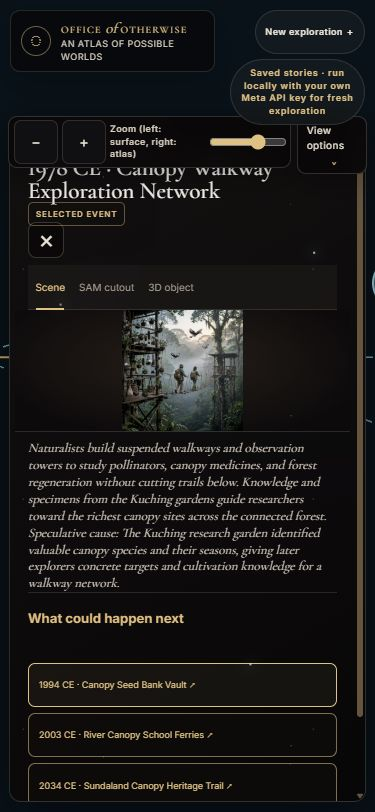
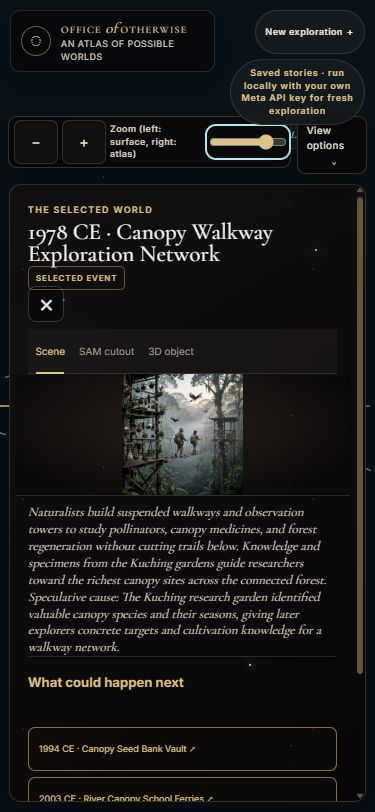
Keep phone details clear of Atlas controls

diff --git a/test/atlasAppIntegration.test.js b/test/atlasAppIntegration.test.js
@@ -71,6 +71,8 @@ test('Orbit compact panels expose a selected-world card and accessible controls'
   assert.match(css, /body:has\(#atlas-scene\[data-atlas-level="orbit"\]\) \.hero-panel>:not\(\.atlas-world-card\),\s*body:has\(#atlas-scene\[data-atlas-level="atlas"\]\) \.hero-panel>:not\(\.atlas-world-card\)\{display:block;position:absolute;inset:0;overflow:hidden;opacity:0;visibility:hidden/, 'the compact card removes full details from layout while keeping them transitionable');
   assert.match(css, /body\.atlas-details-open:has\(#atlas-scene\[data-atlas-level="orbit"\]\) \.hero-panel>:not\(\.atlas-world-card\):not\(\[hidden\]\),\s*body\.atlas-details-open:has\(#atlas-scene\[data-atlas-level="atlas"\]\) \.hero-panel>:not\(\.atlas-world-card\):not\(\[hidden\]\)\{display:block;position:relative;inset:auto;max-height:none;overflow:visible;opacity:1;visibility:visible/, 'Open details restores nonhidden chronicle content for a reverse transition');
   assert.match(css, /body\.atlas-details-open:has\(#atlas-scene\[data-atlas-level="orbit"\]\) \.atlas-world-card,\s*body\.atlas-details-open:has\(#atlas-scene\[data-atlas-level="atlas"\]\) \.atlas-world-card\{display:grid;position:absolute;[\s\S]*?opacity:0;visibility:hidden;pointer-events:none/, 'the compact card leaves the visible layout when details open');
+  assert.match(css, /@media\(max-width:700px\)[\s\S]*body\.atlas-details-open:has\(#atlas-scene\[data-atlas-level="orbit"\]\) \.hero-panel,\s*body\.atlas-details-open:has\(#atlas-scene\[data-atlas-level="atlas"\]\) \.hero-panel\{top:184px;right:9px;bottom:10px;left:9px;width:auto;height:auto;max-height:calc\(100dvh - 130px\);overflow:auto\}/, 'the phone details sheet starts below the zoom toolbar and scrolls within the remaining viewport');
+  assert.match(css, /body\.atlas-details-open:has\(#atlas-scene\[data-atlas-level="atlas"\]\) \.hero-panel\{top:218px\}/, 'the Atlas phone sheet starts below the additional Other questions control');
   assert.match(css, /\.atlas-details-close\[hidden\]\{display:none!important\}/, 'the separate details close control only appears while details are open');
   assert.match(app, /const cardHidden = !compact \|\| detailsOpen \|\| card\.hidden;[\s\S]*card\.inert = cardHidden;[\s\S]*card\.setAttribute\('aria-hidden', String\(cardHidden\)\)/, 'the hidden compact card leaves keyboard and accessibility navigation');
   assert.match(css, /\.atlas-world-card\{display:grid;position:absolute;[\s\S]*?opacity:0;visibility:hidden/, 'the card stays renderable so Orbit can fade it in');

diff --git a/web/style.css b/web/style.css
@@ -484,7 +484,8 @@ body.atlas-panels-open:has(#atlas-scene[data-atlas-level="atlas"]) .atlas-toolba
   .atlas-world-card-copy span{font-size:11px}
   .atlas-world-card button{grid-column:auto;min-width:92px;min-height:44px;padding:5px;font-size:10px}
   body.atlas-details-open:has(#atlas-scene[data-atlas-level="orbit"]) .hero-panel,
-  body.atlas-details-open:has(#atlas-scene[data-atlas-level="atlas"]) .hero-panel{top:auto;right:9px;bottom:10px;left:9px;width:auto;height:auto;max-height:calc(100dvh - 130px);overflow:auto}
+  body.atlas-details-open:has(#atlas-scene[data-atlas-level="atlas"]) .hero-panel{top:184px;right:9px;bottom:10px;left:9px;width:auto;height:auto;max-height:calc(100dvh - 130px);overflow:auto}
+  body.atlas-details-open:has(#atlas-scene[data-atlas-level="atlas"]) .hero-panel{top:218px}
   body.atlas-details-open:has(#atlas-scene[data-atlas-level="orbit"]) .exploration-rail,
   body.atlas-details-open:has(#atlas-scene[data-atlas-level="atlas"]) .exploration-rail{bottom:10px}
   body.atlas-details-open:has(#atlas-scene[data-atlas-level="orbit"]) .atlas-compact-controls,

diff --git a/docs/atlas-zoom/round3/README.md b/docs/atlas-zoom/round3/README.md
@@ -6,6 +6,6 @@ Exact settled question-root and parent-child paths were independently checked to
 
 At 375px, the Other questions control was checked against saved data: opening it changed the visible world count from 30 to 42 and closing it restored 30. The phone Zoom out button was hit-tested and opened Orbit at 68%. Reduced-motion emulation reported a 0-second transition for the rail, sheet and compact card. Review used the local replay-only fixture and did not dispatch Meta requests.
 
-`details-open-1440.jpg` and `details-open-375.jpg` show the selected-world sheet open in Orbit. Local browser checks confirmed its compact card is hidden while the sheet heading is visible, the close button receives focus after the reveal, and closing returns to the compact card.
+`details-open-1440.jpg` and `details-open-375.jpg` show the selected-world sheet open in Orbit; `details-atlas-open-375.jpg` shows it in Atlas. Local browser checks confirmed its compact card is hidden while the sheet heading is visible, the close button receives focus after the reveal, and closing returns to the compact card. At 375px the sheet clears both the Orbit toolbar and the Atlas question toggle.
 
 In the recorded local replay at 1440×900, successive 120-pixel wheel inputs reached 10, 19, 29, 38, 48, 57 (Orbit), 67, 76, 86, 95 and 100 (Atlas). The reverse pass reached 90, 81, 71, 62, 57 (Orbit), 47, 38, 28, 19, 9 and 0 (Surface). Both passes left the Orbit stop on the next input.

diff --git a/docs/HACKATHON.md b/docs/HACKATHON.md
@@ -168,3 +168,4 @@ Event: Meta Global AI Developer Hackathon. Building Oct 27 – Nov 4, 2026. **Su
 | 2026-11-01 | Atlas round 3: refresh four-level desktop and phone screenshots and the local wheel round trip after routing and wheel fixes. | |
 | 2026-11-01 | Atlas round 3: separate compact and full selected-world views, and preserve keyboard focus when opening, closing, or leaving details. | |
 | 2026-11-01 | Atlas round 3: capture the open detail sheet at desktop and phone sizes after browser focus and visibility checks. | |
+| 2026-11-01 | Atlas round 3: keep the phone detail sheet below the zoom toolbar and Atlas question toggle. | |
